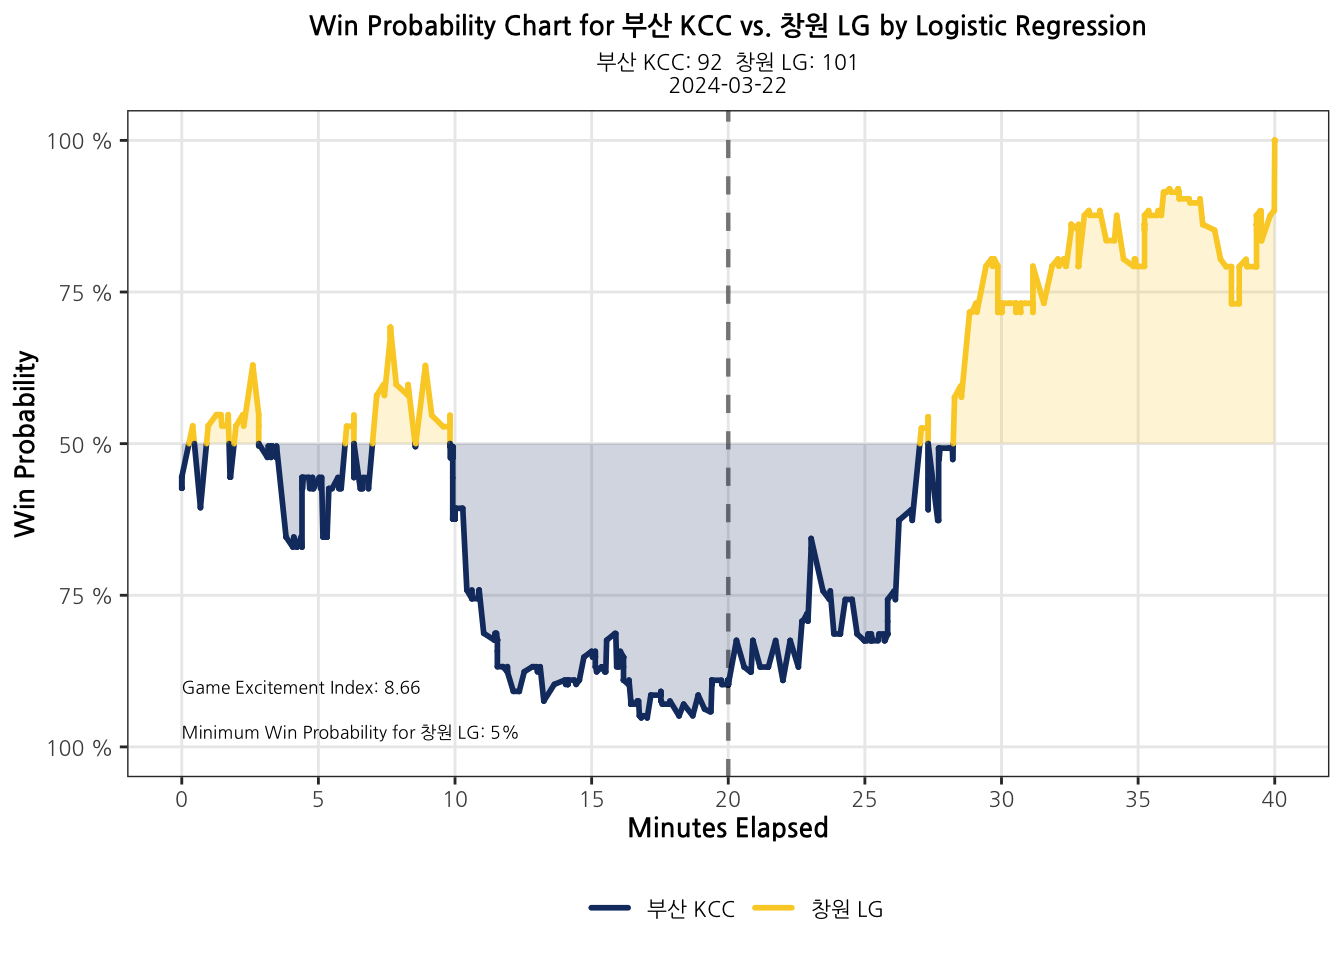
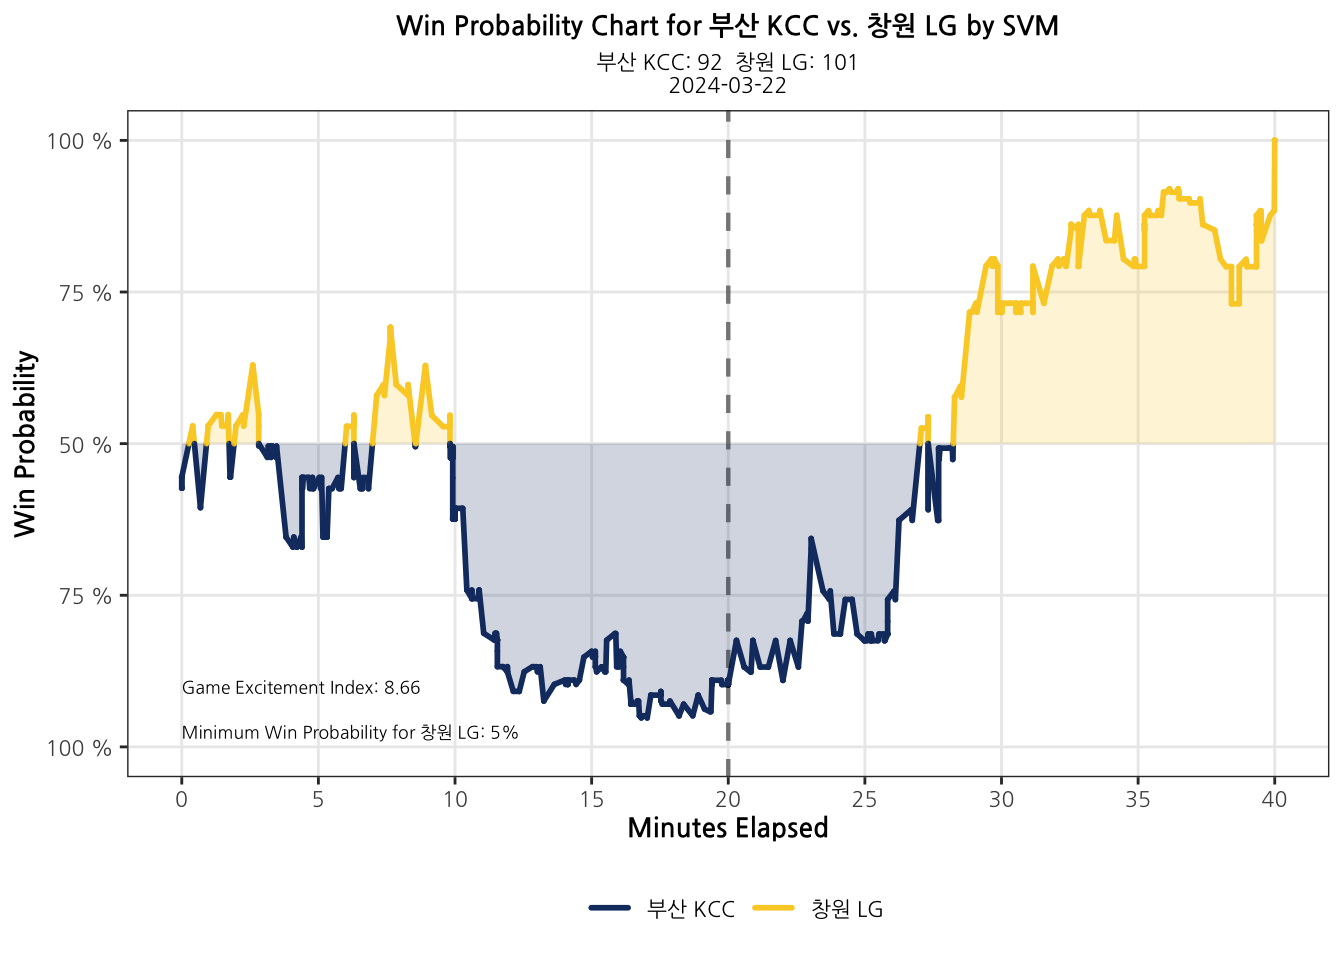
11:30

Changed region(s): [[0.2188, 0.0, 0.8438, 0.0625]]

diff --git a/docs/posts/KBL_pbp/kbl_pbp.html b/docs/posts/KBL_pbp/kbl_pbp.html
@@ -252,7 +252,7 @@ code span.wa { color: #60a0b0; font-weight: bold; font-style: italic; } /* Warni
 <div class="cell-output-display">
 <p><img src="kbl_pbp_files/figure-html/unnamed-chunk-5-1.png" class="img-fluid" width="672"></p>
 </div>
-<div class="sourceCode cell-code" id="cb2"><pre class="sourceCode r code-with-copy"><code class="sourceCode r"><span id="cb2-1"><a href="#cb2-1" aria-hidden="true" tabindex="-1"></a><span class="fu">kbl_wp_chart_new</span>(<span class="at">data=</span>pbp_test, <span class="at">training_data=</span>pbp2, <span class="st">"Logistic Regression"</span>, <span class="at">show_labels =</span> T)</span></code><button title="Copy to Clipboard" class="code-copy-button"><i class="bi"></i></button></pre></div>
+<div class="sourceCode cell-code" id="cb2"><pre class="sourceCode r code-with-copy"><code class="sourceCode r"><span id="cb2-1"><a href="#cb2-1" aria-hidden="true" tabindex="-1"></a><span class="fu">kbl_wp_chart_new</span>(<span class="at">data=</span>pbp_test, <span class="at">training_data=</span>pbp2, <span class="st">"SVM"</span>, <span class="at">show_labels =</span> T)</span></code><button title="Copy to Clipboard" class="code-copy-button"><i class="bi"></i></button></pre></div>
 <div class="cell-output-display">
 <p><img src="kbl_pbp_files/figure-html/unnamed-chunk-5-2.png" class="img-fluid" width="672"></p>
 </div>
@@ -261,7 +261,7 @@ code span.wa { color: #60a0b0; font-weight: bold; font-style: italic; } /* Warni
 <p>The visualization function heavily relies on the ‘ncaahoopR’ package by Benz. Meanwhile, this project explored four algorithms—Logistic Regression, Naive Bayes, Random Forest, and Neural Network—to analyze prediction patterns and variances.</p>
 <div class="cell">
 <div class="cell-output-display">
-<p><img src="kbl_pbp_files/figure-html/unnamed-chunk-7-1.png" class="img-fluid" width="672"></p>
+<p><img src="kbl_pbp_files/figure-html/unnamed-chunk-8-1.png" class="img-fluid" width="672"></p>
 </div>
 </div>
 <p>The predictions of three algorithms—Logistic Regression, Naive Bayes, and Neural Network—predicted similar patterns. However, Random Forest demonstrated a relatively higher variability compared to the other three. Notably, due to this increased variability, the GEI of the Random Forest model was the highest among the four models.</p>
@@ -273,7 +273,7 @@ code span.wa { color: #60a0b0; font-weight: bold; font-style: italic; } /* Warni
 <div class="cell">
 <div class="sourceCode cell-code" id="cb3"><pre class="sourceCode r code-with-copy"><code class="sourceCode r"><span id="cb3-1"><a href="#cb3-1" aria-hidden="true" tabindex="-1"></a><span class="fu">kbl_assist_net</span>(<span class="at">data=</span>pbp2, <span class="at">team_select=</span><span class="st">"서울 삼성"</span>,<span class="at">random=</span><span class="dv">14</span>,<span class="at">top=</span><span class="dv">13</span>,<span class="st">"lightblue"</span>)</span></code><button title="Copy to Clipboard" class="code-copy-button"><i class="bi"></i></button></pre></div>
 <div class="cell-output-display">
-<p><img src="kbl_pbp_files/figure-html/unnamed-chunk-10-1.png" class="img-fluid" width="672"></p>
+<p><img src="kbl_pbp_files/figure-html/unnamed-chunk-11-1.png" class="img-fluid" width="672"></p>
 </div>
 </div>
 <p>In the analysis presented above, it’s evident that JungHyun Lee(이정현) had the highest assist frequency, accounting for 26.5% of assists of Seoul Samsung(서울 삼성) from 2023-10-22 to 2024-03-14. Lee, who ranks at third in average assists in the league, contributed 264 points to Kofi Cockburn(코피 코번)’s total, who currently ranks at third in most points averaged in the KBL. Thus, teams preparing to play against Seoul Samsung should prioritize awareness of Cockburn’s movements whenever Lee has the possession of the ball.</p>
@@ -286,11 +286,11 @@ code span.wa { color: #60a0b0; font-weight: bold; font-style: italic; } /* Warni
 <section id="reference" class="level2">
 <h2 class="anchored" data-anchor-id="reference">Reference</h2>
 <ul>
+<li>Florian, Korte; Lames, Martin. (2018). Characterizing different team sports using network analysis. Current Issues in Sport Science. <a href="https://doi.org/10.15203/CISS_2018.005" class="uri">https://doi.org/10.15203/CISS_2018.005</a></li>
 <li>Luca Grassetti, Ruggero Bellio, Luca Di Gaspero, Giovanni Fonseca, Paolo Vidoni. (2021). An extended regularized adjusted plus-minus analysis for lineup management in basketball using play-by-play data. IMA Journal of Management Mathematics. <a href="https://doi.org/10.1093/imaman/dpaa022" class="uri">https://doi.org/10.1093/imaman/dpaa022</a></li>
+<li>Luís Vilar, Duarte Araújo, Keith Davids, Yaneer Bar-Yam. (2013). Science of winning soccer: Emergent pattern-forming dynamics in association football. Journal of Systems Science and Complexity. <a href="https://doi.org/10.1007/s11424-013-2286-z" class="uri">https://doi.org/10.1007/s11424-013-2286-z</a></li>
 <li>Luke Benz. (2017). NCAA Basketball Game Excitement. Yale Undergraduate Sports Analytics Group. Retrieved from <a href="https://sports.sites.yale.edu/ncaa-basketball-game-excitement-index" class="uri">https://sports.sites.yale.edu/ncaa-basketball-game-excitement-index</a></li>
 <li>Petar Vračar, Erik Štrumbelj, Igor Kononenko. (2016). Modeling basketball play-by-play data, Expert Systems with Applications. <a href="https://doi.org/10.1016/j.eswa.2015.09.004" class="uri">https://doi.org/10.1016/j.eswa.2015.09.004</a></li>
-<li>Luís Vilar, Duarte Araújo, Keith Davids, Yaneer Bar-Yam. (2013). Science of winning soccer: Emergent pattern-forming dynamics in association football. Journal of Systems Science and Complexity. <a href="https://doi.org/10.1007/s11424-013-2286-z" class="uri">https://doi.org/10.1007/s11424-013-2286-z</a></li>
-<li>Florian, Korte; Lames, Martin. (2018). Characterizing different team sports using network analysis. Current Issues in Sport Science. <a href="https://doi.org/10.15203/CISS_2018.005" class="uri">https://doi.org/10.15203/CISS_2018.005</a></li>
 </ul>
 </section>
 <section id="section" class="level2">

diff --git a/docs/projects.html b/docs/projects.html
@@ -185,7 +185,7 @@ ul.task-list li input[type="checkbox"] {
 
 <div class="quarto-listing quarto-listing-container-default" id="listing-listing">
 <div class="list quarto-listing-default">
-<div class="quarto-post image-right" data-index="0" data-categories="KBL" data-listing-date-sort="1710388800000" data-listing-file-modified-sort="1711637716801" data-listing-reading-time-sort="27.53">
+<div class="quarto-post image-right" data-index="0" data-categories="KBL" data-listing-date-sort="1710388800000" data-listing-file-modified-sort="1711639643848" data-listing-reading-time-sort="27.505">
 <div class="thumbnail">
 <p><a href="./posts/KBL_pbp/kbl_pbp.html"> <img src="./posts/KBL_pbp/kbl.jpeg" class="thumnail-image"> </a></p>
 </div>

diff --git a/docs/Photography.html b/docs/Photography.html
@@ -350,7 +350,7 @@ window.document.addEventListener("DOMContentLoaded", function (event) {
       </div>
   </div>
 </footer>
-<script>var lightboxQuarto = GLightbox({"selector":".lightbox","descPosition":"bottom","loop":true,"openEffect":"zoom","closeEffect":"zoom"});</script>
+<script>var lightboxQuarto = GLightbox({"openEffect":"zoom","selector":".lightbox","loop":true,"descPosition":"bottom","closeEffect":"zoom"});</script>
 
 
 
